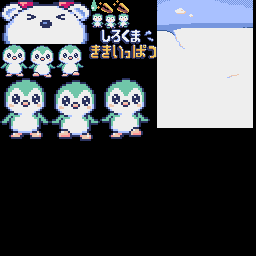
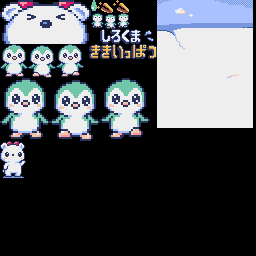
タイトル画面作成

Changed region(s): [[0.0, 0.5312, 0.0938, 0.7188]]

diff --git a/app.py b/app.py
@@ -34,15 +34,15 @@ class App:
 
     def update(self):
         if self.state == GameState.SPLASH:
-            self.check_transition(GameState.PROLOGUE, 5)
+            self.check_click(GameState.PROLOGUE)
         elif self.state == GameState.PROLOGUE:
-            self.check_transition(GameState.GAME_START, 5)
+            self.check_click(GameState.GAME_START)
         elif self.state == GameState.GAME_START:
-            self.check_transition(GameState.PLAY, 5)
+            self.check_click(GameState.PLAY)
         elif self.state == GameState.PLAY:
             self.check_click(GameState.GAME_END)
         elif self.state == GameState.GAME_END:
-            self.check_transition(GameState.RESULT, 5)
+            self.check_click(GameState.RESULT)
         elif self.state == GameState.RESULT:
             self.check_click(GameState.RETRY)
         elif self.state == GameState.RETRY:
@@ -59,50 +59,48 @@ class App:
 
     def draw(self):
         pyxel.cls(0)
-        self.image.draw(ImageAsset.BG_01, 0, 0)  # TODO: 試し置き
-        self.image.draw(ImageAsset.LOGO, 20, 30)  # TODO: 試し置き
-        self.image.draw(ImageAsset.PenguinM_01, 20, 60)  # TODO: 試し置き
-        self.image.draw(ImageAsset.BearFace, 3, 84)  # TODO: 試し置き
+        self.image.draw(ImageAsset.BG_01, 0, 0)
 
-        # if self.state == GameState.SPLASH:
-        #     self.show_splash()
-        # elif self.state == GameState.PROLOGUE:
-        #     self.show_prologue()
-        # elif self.state == GameState.GAME_START:
-        #     self.show_game_start()
-        # elif self.state == GameState.PLAY:
-        #     self.start_game()
-        # elif self.state == GameState.GAME_END:
-        #     self.show_game_end()
-        # elif self.state == GameState.RESULT:
-        #     self.show_result()
-        # elif self.state == GameState.RETRY:
-        #     self.show_retry()
+        if self.state == GameState.SPLASH:
+            self.show_splash()
+        elif self.state == GameState.PROLOGUE:
+            self.show_prologue()
+        elif self.state == GameState.GAME_START:
+            self.show_game_start()
+        elif self.state == GameState.PLAY:
+            self.start_game()
+        elif self.state == GameState.GAME_END:
+            self.show_game_end()
+        elif self.state == GameState.RESULT:
+            self.show_result()
+        elif self.state == GameState.RETRY:
+            self.show_retry()
 
     def show_mozi(self, x, y, text, size, color):
         writer = puf.Writer("ipa_gothic.ttf")
         writer.draw(x, y, text, size, color)
 
     def show_splash(self):
-        self.show_mozi(150, 100, "SPLASH SCREEN", 21, 7)
+        self.image.draw(ImageAsset.BEAR, 36, 41)
+        self.image.draw(ImageAsset.LOGO, 14, 85)
 
     def show_prologue(self):
-        self.show_mozi(50, 60, "PROLOGUE", 21, 7)
+        self.show_mozi(0, 0, "PROLOGUE", 10, 0)
 
     def show_game_start(self):
-        self.show_mozi(50, 60, "GAME START", 21, 7)
+        self.show_mozi(0, 0, "GAME START", 10, 0)
 
     def start_game(self):
-        self.show_mozi(50, 60, "PLAY ... PUSH SPACE", 21, 7)
+        self.show_mozi(0, 0, "PLAY", 10, 0)
 
     def show_game_end(self):
-        self.show_mozi(50, 60, "WIN / LOSE", 21, 7)
+        self.show_mozi(0, 0, "WIN / LOSE", 10, 0)
 
     def show_result(self):
-        self.show_mozi(50, 60, "RESULT ... PUSH SPACE", 21, 7)
+        self.show_mozi(0, 0, "RESULT", 10, 0)
 
     def show_retry(self):
-        self.show_mozi(50, 60, "RETRY ... PUSH SPACE", 21, 7)
+        self.show_mozi(0, 0, "RETRY ", 10, 0)
 
 
 App()

diff --git a/image.py b/image.py
@@ -18,6 +18,7 @@ class ImageAsset(IntEnum):
     PenguinL_03 = auto()
     LOGO = auto()
     BG_01 = auto()
+    BEAR = auto()
 
 
 class ImageInfo:
@@ -73,3 +74,4 @@ class Image:
 
         self.assets[ImageAsset.LOGO] = ImageInfo(0, 89, 29, 68, 30)
         self.assets[ImageAsset.BG_01] = ImageInfo(0, 157, 0, 96, 128)
+        self.assets[ImageAsset.BEAR] = ImageInfo(0, 0, 141, 26, 37)
